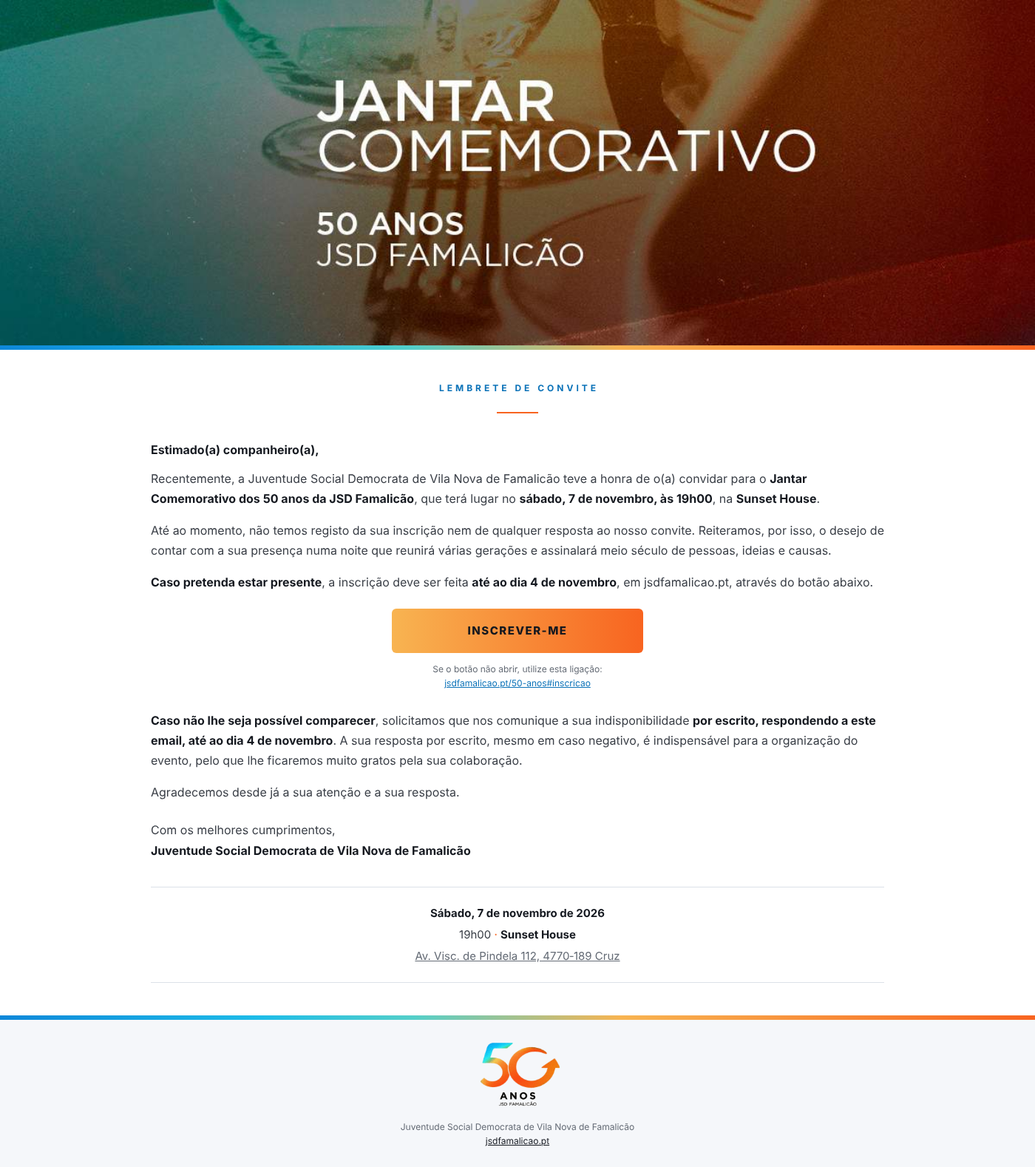
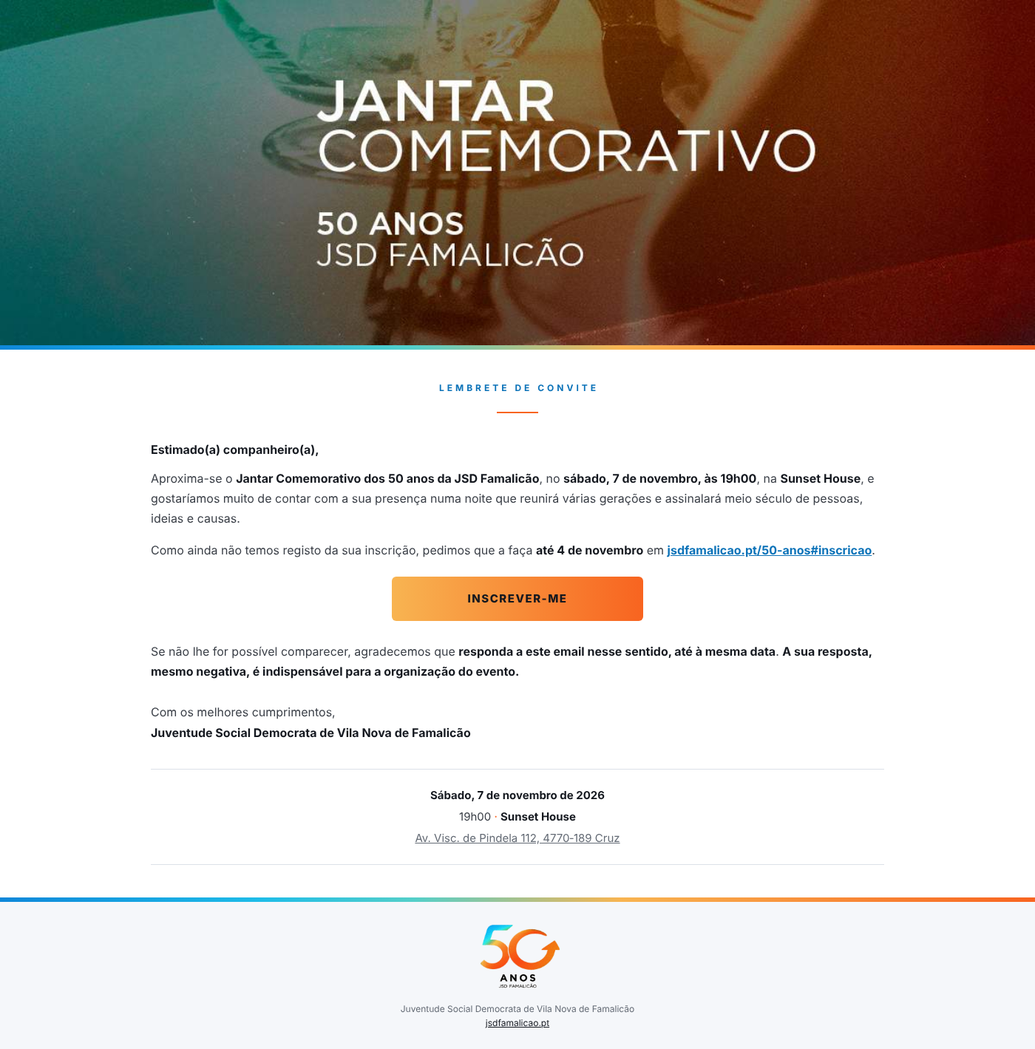
Email: follow-up institucional com o novo texto
Claude-Session: https://claude.ai/code/session_01HmCa1vTjDHZDtaefdz4YMz

Changed region(s): [[0.0, 0.3721, 1.0, 0.9922], [0.0, 0.031, 1.0, 0.3721], [0.0, 0.031, 0.0614, 0.062]]

diff --git a/email/jsd-50-anos-institucional-followup/copiar-email.html b/email/jsd-50-anos-institucional-followup/copiar-email.html
@@ -47,7 +47,7 @@
   </div>
 </main>
 <script>
-  const CONVITES = {"followup": {"html": "<!DOCTYPE html>\n<html lang=\"pt-PT\">\n<head>\n  <meta charset=\"UTF-8\">\n  <meta name=\"viewport\" content=\"width=device-width, initial-scale=1.0\">\n  <meta name=\"color-scheme\" content=\"light only\">\n  <meta name=\"supported-color-schemes\" content=\"light only\">\n  <meta name=\"format-detection\" content=\"telephone=no, date=no, address=no, email=no\">\n  <meta name=\"x-apple-disable-message-reformatting\">\n  <title>Convite · Jantar Comemorativo dos 50 anos da JSD Famalicão · Pedido de resposta<\/title>\n  <style>\n    body { -webkit-text-size-adjust:100%; -ms-text-size-adjust:100%; }\n    :root { color-scheme:light only; supported-color-schemes:light only; }\n    a[x-apple-data-detectors] { color:inherit !important; text-decoration:none !important; font-size:inherit !important; font-family:inherit !important; font-weight:inherit !important; line-height:inherit !important; }\n    @media only screen and (max-width:600px) {\n      .px          { padding-left:22px !important; padding-right:22px !important; }\n      .t-etiqueta  { font-size:13px !important; line-height:18px !important; }\n      .t-corpo     { font-size:18px !important; line-height:30px !important; }\n      .t-lead2     { font-size:20px !important; line-height:28px !important; }\n      .t-dados     { font-size:17px !important; line-height:28px !important; }\n      .t-ligacao   { font-size:14px !important; line-height:22px !important; }\n      .t-rodape    { font-size:14px !important; line-height:22px !important; }\n      .btn-tabela  { width:100% !important; }\n      .btn         { display:block !important; padding:21px 12px !important; font-size:16px !important; }\n    }\n  <\/style>\n<\/head>\n\n<!-- Gerado por src/gerar.py. Banner e barras a toda a largura; texto numa coluna de até 1040 px. -->\n\n<body style=\"margin:0; padding:0; background-color:#FFFFFF;\">\n\n  <div style=\"display:none; max-height:0; overflow:hidden; opacity:0; font-size:1px; line-height:1px; color:#FFFFFF;\">\n    Reiteramos o convite para 7 de novembro e agradecemos a sua resposta. Inscrição até 4 de novembro.\n    &#8199;&#847;&#8199;&#847;&#8199;&#847;&#8199;&#847;&#8199;&#847;&#8199;&#847;&#8199;&#847;&#8199;&#847;\n  <\/div>\n\n  <table role=\"presentation\" width=\"100%\" cellpadding=\"0\" cellspacing=\"0\" border=\"0\" bgcolor=\"#FFFFFF\" style=\"min-width:100%; background-color:#FFFFFF; font-family:Montserrat,'Helvetica Neue',Helvetica,Arial,sans-serif; -webkit-text-size-adjust:100%; -ms-text-size-adjust:100%; color-scheme:light only;\">\n\n    <tr>\n      <td align=\"center\" bgcolor=\"#554835\" style=\"background-color:#554835; font-size:0; line-height:0; text-align:center;\">\n        <img src=\"https://raw.githubusercontent.com/filipaf18/filipa-freitas-portfolio/213aef5628d4d71de076a4b38431e48593f2542e/email/jsd-50-anos-ultimas-inscricoes/imagens/banner.jpg\" width=\"640\" alt=\"Jantar Comemorativo. 50 anos JSD Famalicão.\"\n             style=\"display:block; min-width:100%; max-width:100%; height:auto; border:0; outline:none; color:#FFFFFF; font-family:Montserrat,'Helvetica Neue',Helvetica,Arial,sans-serif; font-size:20px; line-height:28px; text-align:center;\">\n      <\/td>\n    <\/tr>\n    <tr>\n      <td height=\"6\" bgcolor=\"#F86420\" style=\"height:6px; font-size:6px; line-height:6px; background-color:#F86420; background-image:linear-gradient(90deg,#0E87D9 0%,#1EBCE8 25%,#54CFC9 40%,#F8B451 60%,#F86420 100%);\">&nbsp;<\/td>\n    <\/tr>\n\n    <tr>\n      <td style=\"padding:0;\">\n        <table role=\"presentation\" align=\"center\" width=\"100%\" cellpadding=\"0\" cellspacing=\"0\" border=\"0\" style=\"max-width:1040px; margin:0 auto;\">\n\n          <tr>\n            <td class=\"px t-etiqueta\" align=\"center\" style=\"padding:44px 24px 0px 24px; font-family:Montserrat,'Helvetica Neue',Helvetica,Arial,sans-serif; font-size:12px; line-height:16px; font-weight:700; letter-spacing:4px; color:#0B72B8; text-align:center;\">LEMBRETE DE CONVIT<span style=\"letter-spacing:0;\">E<\/span><\/td>\n          <\/tr>\n          <tr>\n            <td align=\"center\" style=\"padding:24px 24px 0px 24px; text-align:center;\">\n              <table role=\"presentation\" align=\"center\" cellpadding=\"0\" cellspacing=\"0\" border=\"0\" style=\"margin:0 auto;\">\n                <tr><td width=\"56\" height=\"2\" bgcolor=\"#F86420\" style=\"width:56px; height:2px; background-color:#F86420; font-size:2px; line-height:2px;\">&nbsp;<\/td><\/tr>\n              <\/table>\n            <\/td>\n          <\/tr>\n          <tr>\n            <td class=\"px t-corpo\" align=\"left\" style=\"padding:36px 24px 0px 24px; font-family:Montserrat,'Helvetica Neue',Helvetica,Arial,sans-serif; font-size:16px; line-height:27px; font-weight:700; color:#14181F; text-align:left;\">Estimado(a) companheiro(a),<\/td>\n          <\/tr>\n          <tr>\n            <td class=\"px t-corpo\" align=\"left\" style=\"padding:12px 24px 0px 24px; font-family:Montserrat,'Helvetica Neue',Helvetica,Arial,sans-serif; font-size:16px; line-height:27px; color:#3A3F47; text-align:left;\">Recentemente, a Juventude Social Democrata de Vila Nova de Famalicão teve a honra de o(a) convidar para o <strong style=\"color:#14181F;\">Jantar Comemorativo dos 50&nbsp;anos da JSD Famalicão<\/strong>, que terá lugar no <strong style=\"color:#14181F;\">sábado, 7&nbsp;de&nbsp;novembro, às&nbsp;19h00<\/strong>, na <strong style=\"color:#14181F;\">Sunset&nbsp;House<\/strong>.<\/td>\n          <\/tr>\n          <tr>\n            <td class=\"px t-corpo\" align=\"left\" style=\"padding:16px 24px 0px 24px; font-family:Montserrat,'Helvetica Neue',Helvetica,Arial,sans-serif; font-size:16px; line-height:27px; color:#3A3F47; text-align:left;\">Até ao momento, não temos registo da sua inscrição nem de qualquer resposta ao nosso convite. Reiteramos, por isso, o desejo de contar com a sua presença numa noite que reunirá várias gerações e assinalará meio século de pessoas, ideias e causas.<\/td>\n          <\/tr>\n          <tr>\n            <td class=\"px t-corpo\" align=\"left\" style=\"padding:16px 24px 0px 24px; font-family:Montserrat,'Helvetica Neue',Helvetica,Arial,sans-serif; font-size:16px; line-height:27px; color:#3A3F47; text-align:left;\"><strong style=\"color:#14181F;\">Caso pretenda estar presente<\/strong>, a inscrição deve ser feita <strong style=\"color:#14181F;\">até ao dia 4&nbsp;de&nbsp;novembro<\/strong>, em jsdfamalicao.pt, através do botão abaixo.<\/td>\n          <\/tr>\n          <tr>\n            <td class=\"px\" align=\"center\" style=\"padding:22px 24px 0px 24px; text-align:center;\">\n              <table class=\"btn-tabela\" role=\"presentation\" width=\"100%\" cellpadding=\"0\" cellspacing=\"0\" border=\"0\" align=\"center\" style=\"max-width:340px; margin:0 auto;\">\n                <tr>\n                  <td align=\"center\" bgcolor=\"#F86420\" style=\"background-color:#F86420; background-image:linear-gradient(90deg,#F8B451 0%,#F86420 100%); border-radius:6px; text-align:center;\">\n                    <a class=\"btn\" href=\"https://jsdfamalicao.pt/50-anos#inscricao\" style=\"display:inline-block; padding:19px 20px; font-family:Montserrat,'Helvetica Neue',Helvetica,Arial,sans-serif; font-size:15px; line-height:22px; font-weight:800; letter-spacing:1.5px; color:#14181F; text-decoration:none; text-align:center;\">INSCREVER-ME<\/a>\n                  <\/td>\n                <\/tr>\n              <\/table>\n            <\/td>\n          <\/tr>\n          <tr>\n            <td class=\"px t-ligacao\" align=\"center\" style=\"padding:12px 24px 0px 24px; font-family:Montserrat,'Helvetica Neue',Helvetica,Arial,sans-serif; font-size:12px; line-height:19px; color:#646B75; text-align:center;\">Se o botão não abrir, utilize esta ligação:<br><a href=\"https://jsdfamalicao.pt/50-anos#inscricao\" style=\"color:#0B72B8; text-decoration:underline; word-break:break-all;\">jsdfamalicao.pt/50-anos#inscricao<\/a><\/td>\n          <\/tr>\n          <tr>\n            <td class=\"px t-corpo\" align=\"left\" style=\"padding:28px 24px 0px 24px; font-family:Montserrat,'Helvetica Neue',Helvetica,Arial,sans-serif; font-size:16px; line-height:27px; color:#3A3F47; text-align:left;\"><strong style=\"color:#14181F;\">Caso não lhe seja possível comparecer<\/strong>, solicitamos que nos comunique a sua indisponibilidade <strong style=\"color:#14181F;\">por escrito, respondendo a este email, até ao dia 4&nbsp;de&nbsp;novembro<\/strong>. A sua resposta por escrito, mesmo em caso negativo, é indispensável para a organização do evento, pelo que lhe ficaremos muito gratos pela sua colaboração.<\/td>\n          <\/tr>\n          <tr>\n            <td class=\"px t-corpo\" align=\"left\" style=\"padding:16px 24px 0px 24px; font-family:Montserrat,'Helvetica Neue',Helvetica,Arial,sans-serif; font-size:16px; line-height:27px; color:#3A3F47; text-align:left;\">Agradecemos desde já a sua atenção e a sua resposta.<\/td>\n          <\/tr>\n          <tr>\n            <td class=\"px t-corpo\" align=\"left\" style=\"padding:24px 24px 0px 24px; font-family:Montserrat,'Helvetica Neue',Helvetica,Arial,sans-serif; font-size:16px; line-height:27px; color:#3A3F47; text-align:left;\">Com os melhores cumprimentos,<\/td>\n          <\/tr>\n          <tr>\n            <td class=\"px t-corpo\" align=\"left\" style=\"padding:2px 24px 0px 24px; font-family:Montserrat,'Helvetica Neue',Helvetica,Arial,sans-serif; font-size:16px; line-height:25px; font-weight:700; color:#14181F; text-align:left;\">Juventude Social Democrata de Vila Nova de&nbsp;Famalicão<\/td>\n          <\/tr>\n          <tr>\n            <td class=\"px\" style=\"padding:36px 24px 0 24px;\">\n              <div style=\"border-top:1px solid #DCE1E8; border-bottom:1px solid #DCE1E8; padding:22px 0; text-align:center;\">\n                <div class=\"t-dados\" style=\"text-align:center; font-family:Montserrat,'Helvetica Neue',Helvetica,Arial,sans-serif; font-size:15px; line-height:26px; color:#3A3F47;\"><strong style=\"color:#14181F;\">Sábado, 7&nbsp;de&nbsp;novembro de&nbsp;2026<\/strong><\/div>\n                <div class=\"t-dados\" style=\"padding-top:3px; text-align:center; font-family:Montserrat,'Helvetica Neue',Helvetica,Arial,sans-serif; font-size:15px; line-height:26px; color:#3A3F47;\">19h00<span style=\"color:#F86420;\">&nbsp;·&nbsp;<\/span><strong style=\"color:#14181F;\">Sunset&nbsp;House<\/strong><\/div>\n                <div class=\"t-dados\" style=\"padding-top:3px; text-align:center; font-family:Montserrat,'Helvetica Neue',Helvetica,Arial,sans-serif; font-size:15px; line-height:26px; color:#3A3F47;\"><a href=\"https://www.google.com/maps/search/?api=1&amp;query=Av.+Visconde+de+Pindela+112,+4770-189+Cruz\" style=\"color:#646B75; text-decoration:underline;\">Av. Visc. de Pindela 112, 4770&#8209;189 Cruz<\/a><\/div>\n              <\/div>\n            <\/td>\n          <\/tr>\n          <tr>\n            <td class=\"px t-corpo\" align=\"left\" style=\"padding:0px 24px 44px 24px; font-family:Montserrat,'Helvetica Neue',Helvetica,Arial,sans-serif; font-size:16px; line-height:27px; color:#3A3F47; text-align:left;\"><\/td>\n          <\/tr>\n        <\/table>\n      <\/td>\n    <\/tr>\n\n    <tr>\n      <td height=\"6\" bgcolor=\"#F86420\" style=\"height:6px; font-size:6px; line-height:6px; background-color:#F86420; background-image:linear-gradient(90deg,#0E87D9 0%,#1EBCE8 25%,#54CFC9 40%,#F8B451 60%,#F86420 100%);\">&nbsp;<\/td>\n    <\/tr>\n\n    <tr>\n      <td class=\"px\" align=\"center\" bgcolor=\"#F5F7FA\" style=\"background-color:#F5F7FA; padding:28px 24px 26px 24px; font-family:Montserrat,'Helvetica Neue',Helvetica,Arial,sans-serif; text-align:center;\">\n        <table role=\"presentation\" align=\"center\" width=\"100%\" cellpadding=\"0\" cellspacing=\"0\" border=\"0\" style=\"margin:0 auto;\">\n          <tr><td align=\"center\" style=\"font-size:0; line-height:0; text-align:center;\"><table role=\"presentation\" align=\"center\" cellpadding=\"0\" cellspacing=\"0\" border=\"0\" style=\"margin:0 auto;\"><tr><td style=\"font-size:0; line-height:0;\"><img src=\"https://raw.githubusercontent.com/filipaf18/filipa-freitas-portfolio/213aef5628d4d71de076a4b38431e48593f2542e/email/jsd-50-anos-ultimas-inscricoes/imagens/logo-50-anos.png\" width=\"120\" alt=\"50 anos JSD Famalicão\" style=\"display:block; width:120px; max-width:100%; height:auto; border:0; outline:none; color:#14181F; font-family:Montserrat,'Helvetica Neue',Helvetica,Arial,sans-serif; font-size:16px; line-height:22px;\"><\/td><\/tr><\/table><\/td><\/tr>\n          <tr><td class=\"t-rodape\" align=\"center\" style=\"padding-top:16px; font-family:Montserrat,'Helvetica Neue',Helvetica,Arial,sans-serif; font-size:12px; line-height:19px; color:#646B75; text-align:center;\">Juventude Social Democrata de Vila&nbsp;Nova de&nbsp;Famalicão<br><a href=\"https://jsdfamalicao.pt\" style=\"color:#14181F; text-decoration:underline;\">jsdfamalicao.pt<\/a><\/td><\/tr>\n        <\/table>\n      <\/td>\n    <\/tr>\n\n  <\/table>\n\n<\/body>\n<\/html>\n", "texto": "LEMBRETE DE CONVITE\n\nEstimado(a) companheiro(a),\n\nRecentemente, a Juventude Social Democrata de Vila Nova de Famalicão teve a honra de o(a) convidar para o Jantar Comemorativo dos 50 anos da JSD Famalicão, que terá lugar no sábado, 7 de novembro, às 19h00, na Sunset House.\n\nAté ao momento, não temos registo da sua inscrição nem de qualquer resposta ao nosso convite. Reiteramos, por isso, o desejo de contar com a sua presença numa noite que reunirá várias gerações e assinalará meio século de pessoas, ideias e causas.\n\nCaso pretenda estar presente, a inscrição deve ser feita até ao dia 4 de novembro, em jsdfamalicao.pt, através do botão abaixo.\n\nINSCREVER-ME\n\nSe o botão não abrir, utilize esta ligação:\njsdfamalicao.pt/50-anos#inscricao\n\nCaso não lhe seja possível comparecer, solicitamos que nos comunique a sua indisponibilidade por escrito, respondendo a este email, até ao dia 4 de novembro. A sua resposta por escrito, mesmo em caso negativo, é indispensável para a organização do evento, pelo que lhe ficaremos muito gratos pela sua colaboração.\n\nAgradecemos desde já a sua atenção e a sua resposta.\n\nCom os melhores cumprimentos,\n\nJuventude Social Democrata de Vila Nova de Famalicão\n\nSábado, 7 de novembro de 2026\n19h00 · Sunset House\nAv. Visc. de Pindela 112, 4770‑189 Cruz\n\nJuventude Social Democrata de Vila Nova de Famalicão\njsdfamalicao.pt", "assunto": "Convite · Jantar Comemorativo dos 50 anos da JSD Famalicão · Pedido de resposta"}};
+  const CONVITES = {"followup": {"html": "<!DOCTYPE html>\n<html lang=\"pt-PT\">\n<head>\n  <meta charset=\"UTF-8\">\n  <meta name=\"viewport\" content=\"width=device-width, initial-scale=1.0\">\n  <meta name=\"color-scheme\" content=\"light only\">\n  <meta name=\"supported-color-schemes\" content=\"light only\">\n  <meta name=\"format-detection\" content=\"telephone=no, date=no, address=no, email=no\">\n  <meta name=\"x-apple-disable-message-reformatting\">\n  <title>Convite · Jantar Comemorativo dos 50 anos da JSD Famalicão · Pedido de resposta<\/title>\n  <style>\n    body { -webkit-text-size-adjust:100%; -ms-text-size-adjust:100%; }\n    :root { color-scheme:light only; supported-color-schemes:light only; }\n    a[x-apple-data-detectors] { color:inherit !important; text-decoration:none !important; font-size:inherit !important; font-family:inherit !important; font-weight:inherit !important; line-height:inherit !important; }\n    @media only screen and (max-width:600px) {\n      .px          { padding-left:22px !important; padding-right:22px !important; }\n      .t-etiqueta  { font-size:13px !important; line-height:18px !important; }\n      .t-corpo     { font-size:18px !important; line-height:30px !important; }\n      .t-lead2     { font-size:20px !important; line-height:28px !important; }\n      .t-dados     { font-size:17px !important; line-height:28px !important; }\n      .t-ligacao   { font-size:14px !important; line-height:22px !important; }\n      .t-rodape    { font-size:14px !important; line-height:22px !important; }\n      .btn-tabela  { width:100% !important; }\n      .btn         { display:block !important; padding:21px 12px !important; font-size:16px !important; }\n    }\n  <\/style>\n<\/head>\n\n<!-- Gerado por src/gerar.py. Banner e barras a toda a largura; texto numa coluna de até 1040 px. -->\n\n<body style=\"margin:0; padding:0; background-color:#FFFFFF;\">\n\n  <div style=\"display:none; max-height:0; overflow:hidden; opacity:0; font-size:1px; line-height:1px; color:#FFFFFF;\">\n    Reiteramos o convite para 7 de novembro e agradecemos a sua resposta. Inscrição até 4 de novembro.\n    &#8199;&#847;&#8199;&#847;&#8199;&#847;&#8199;&#847;&#8199;&#847;&#8199;&#847;&#8199;&#847;&#8199;&#847;\n  <\/div>\n\n  <table role=\"presentation\" width=\"100%\" cellpadding=\"0\" cellspacing=\"0\" border=\"0\" bgcolor=\"#FFFFFF\" style=\"min-width:100%; background-color:#FFFFFF; font-family:Montserrat,'Helvetica Neue',Helvetica,Arial,sans-serif; -webkit-text-size-adjust:100%; -ms-text-size-adjust:100%; color-scheme:light only;\">\n\n    <tr>\n      <td align=\"center\" bgcolor=\"#554835\" style=\"background-color:#554835; font-size:0; line-height:0; text-align:center;\">\n        <img src=\"https://raw.githubusercontent.com/filipaf18/filipa-freitas-portfolio/213aef5628d4d71de076a4b38431e48593f2542e/email/jsd-50-anos-ultimas-inscricoes/imagens/banner.jpg\" width=\"640\" alt=\"Jantar Comemorativo. 50 anos JSD Famalicão.\"\n             style=\"display:block; min-width:100%; max-width:100%; height:auto; border:0; outline:none; color:#FFFFFF; font-family:Montserrat,'Helvetica Neue',Helvetica,Arial,sans-serif; font-size:20px; line-height:28px; text-align:center;\">\n      <\/td>\n    <\/tr>\n    <tr>\n      <td height=\"6\" bgcolor=\"#F86420\" style=\"height:6px; font-size:6px; line-height:6px; background-color:#F86420; background-image:linear-gradient(90deg,#0E87D9 0%,#1EBCE8 25%,#54CFC9 40%,#F8B451 60%,#F86420 100%);\">&nbsp;<\/td>\n    <\/tr>\n\n    <tr>\n      <td style=\"padding:0;\">\n        <table role=\"presentation\" align=\"center\" width=\"100%\" cellpadding=\"0\" cellspacing=\"0\" border=\"0\" style=\"max-width:1040px; margin:0 auto;\">\n\n          <tr>\n            <td class=\"px t-etiqueta\" align=\"center\" style=\"padding:44px 24px 0px 24px; font-family:Montserrat,'Helvetica Neue',Helvetica,Arial,sans-serif; font-size:12px; line-height:16px; font-weight:700; letter-spacing:4px; color:#0B72B8; text-align:center;\">LEMBRETE DE CONVIT<span style=\"letter-spacing:0;\">E<\/span><\/td>\n          <\/tr>\n          <tr>\n            <td align=\"center\" style=\"padding:24px 24px 0px 24px; text-align:center;\">\n              <table role=\"presentation\" align=\"center\" cellpadding=\"0\" cellspacing=\"0\" border=\"0\" style=\"margin:0 auto;\">\n                <tr><td width=\"56\" height=\"2\" bgcolor=\"#F86420\" style=\"width:56px; height:2px; background-color:#F86420; font-size:2px; line-height:2px;\">&nbsp;<\/td><\/tr>\n              <\/table>\n            <\/td>\n          <\/tr>\n          <tr>\n            <td class=\"px t-corpo\" align=\"left\" style=\"padding:36px 24px 0px 24px; font-family:Montserrat,'Helvetica Neue',Helvetica,Arial,sans-serif; font-size:16px; line-height:27px; font-weight:700; color:#14181F; text-align:left;\">Estimado(a) companheiro(a),<\/td>\n          <\/tr>\n          <tr>\n            <td class=\"px t-corpo\" align=\"left\" style=\"padding:12px 24px 0px 24px; font-family:Montserrat,'Helvetica Neue',Helvetica,Arial,sans-serif; font-size:16px; line-height:27px; color:#3A3F47; text-align:left;\">Aproxima-se o <strong style=\"color:#14181F;\">Jantar Comemorativo dos 50&nbsp;anos da JSD Famalicão<\/strong>, no <strong style=\"color:#14181F;\">sábado, 7&nbsp;de&nbsp;novembro, às&nbsp;19h00<\/strong>, na <strong style=\"color:#14181F;\">Sunset&nbsp;House<\/strong>, e gostaríamos muito de contar com a sua presença numa noite que reunirá várias gerações e assinalará meio século de pessoas, ideias e causas.<\/td>\n          <\/tr>\n          <tr>\n            <td class=\"px t-corpo\" align=\"left\" style=\"padding:16px 24px 0px 24px; font-family:Montserrat,'Helvetica Neue',Helvetica,Arial,sans-serif; font-size:16px; line-height:27px; color:#3A3F47; text-align:left;\">Como ainda não temos registo da sua inscrição, pedimos que a faça <strong style=\"color:#14181F;\">até 4&nbsp;de&nbsp;novembro<\/strong> em <a href=\"https://jsdfamalicao.pt/50-anos#inscricao\" style=\"color:#0B72B8; text-decoration:underline; font-weight:700;\">jsdfamalicao.pt/50-anos#inscricao<\/a>.<\/td>\n          <\/tr>\n          <tr>\n            <td class=\"px\" align=\"center\" style=\"padding:22px 24px 0px 24px; text-align:center;\">\n              <table class=\"btn-tabela\" role=\"presentation\" width=\"100%\" cellpadding=\"0\" cellspacing=\"0\" border=\"0\" align=\"center\" style=\"max-width:340px; margin:0 auto;\">\n                <tr>\n                  <td align=\"center\" bgcolor=\"#F86420\" style=\"background-color:#F86420; background-image:linear-gradient(90deg,#F8B451 0%,#F86420 100%); border-radius:6px; text-align:center;\">\n                    <a class=\"btn\" href=\"https://jsdfamalicao.pt/50-anos#inscricao\" style=\"display:inline-block; padding:19px 20px; font-family:Montserrat,'Helvetica Neue',Helvetica,Arial,sans-serif; font-size:15px; line-height:22px; font-weight:800; letter-spacing:1.5px; color:#14181F; text-decoration:none; text-align:center;\">INSCREVER-ME<\/a>\n                  <\/td>\n                <\/tr>\n              <\/table>\n            <\/td>\n          <\/tr>\n          <tr>\n            <td class=\"px t-corpo\" align=\"left\" style=\"padding:28px 24px 0px 24px; font-family:Montserrat,'Helvetica Neue',Helvetica,Arial,sans-serif; font-size:16px; line-height:27px; color:#3A3F47; text-align:left;\">Se não lhe for possível comparecer, agradecemos que <strong style=\"color:#14181F;\">responda a este email nesse sentido, até à mesma data<\/strong>. <strong style=\"color:#14181F;\">A sua resposta, mesmo negativa, é indispensável para a organização do evento.<\/strong><\/td>\n          <\/tr>\n          <tr>\n            <td class=\"px t-corpo\" align=\"left\" style=\"padding:28px 24px 0px 24px; font-family:Montserrat,'Helvetica Neue',Helvetica,Arial,sans-serif; font-size:16px; line-height:27px; color:#3A3F47; text-align:left;\">Com os melhores cumprimentos,<\/td>\n          <\/tr>\n          <tr>\n            <td class=\"px t-corpo\" align=\"left\" style=\"padding:2px 24px 0px 24px; font-family:Montserrat,'Helvetica Neue',Helvetica,Arial,sans-serif; font-size:16px; line-height:25px; font-weight:700; color:#14181F; text-align:left;\">Juventude Social Democrata de Vila Nova de&nbsp;Famalicão<\/td>\n          <\/tr>\n          <tr>\n            <td class=\"px\" style=\"padding:36px 24px 0 24px;\">\n              <div style=\"border-top:1px solid #DCE1E8; border-bottom:1px solid #DCE1E8; padding:22px 0; text-align:center;\">\n                <div class=\"t-dados\" style=\"text-align:center; font-family:Montserrat,'Helvetica Neue',Helvetica,Arial,sans-serif; font-size:15px; line-height:26px; color:#3A3F47;\"><strong style=\"color:#14181F;\">Sábado, 7&nbsp;de&nbsp;novembro de&nbsp;2026<\/strong><\/div>\n                <div class=\"t-dados\" style=\"padding-top:3px; text-align:center; font-family:Montserrat,'Helvetica Neue',Helvetica,Arial,sans-serif; font-size:15px; line-height:26px; color:#3A3F47;\">19h00<span style=\"color:#F86420;\">&nbsp;·&nbsp;<\/span><strong style=\"color:#14181F;\">Sunset&nbsp;House<\/strong><\/div>\n                <div class=\"t-dados\" style=\"padding-top:3px; text-align:center; font-family:Montserrat,'Helvetica Neue',Helvetica,Arial,sans-serif; font-size:15px; line-height:26px; color:#3A3F47;\"><a href=\"https://www.google.com/maps/search/?api=1&amp;query=Av.+Visconde+de+Pindela+112,+4770-189+Cruz\" style=\"color:#646B75; text-decoration:underline;\">Av. Visc. de Pindela 112, 4770&#8209;189 Cruz<\/a><\/div>\n              <\/div>\n            <\/td>\n          <\/tr>\n          <tr>\n            <td class=\"px t-corpo\" align=\"left\" style=\"padding:0px 24px 44px 24px; font-family:Montserrat,'Helvetica Neue',Helvetica,Arial,sans-serif; font-size:16px; line-height:27px; color:#3A3F47; text-align:left;\"><\/td>\n          <\/tr>\n        <\/table>\n      <\/td>\n    <\/tr>\n\n    <tr>\n      <td height=\"6\" bgcolor=\"#F86420\" style=\"height:6px; font-size:6px; line-height:6px; background-color:#F86420; background-image:linear-gradient(90deg,#0E87D9 0%,#1EBCE8 25%,#54CFC9 40%,#F8B451 60%,#F86420 100%);\">&nbsp;<\/td>\n    <\/tr>\n\n    <tr>\n      <td class=\"px\" align=\"center\" bgcolor=\"#F5F7FA\" style=\"background-color:#F5F7FA; padding:28px 24px 26px 24px; font-family:Montserrat,'Helvetica Neue',Helvetica,Arial,sans-serif; text-align:center;\">\n        <table role=\"presentation\" align=\"center\" width=\"100%\" cellpadding=\"0\" cellspacing=\"0\" border=\"0\" style=\"margin:0 auto;\">\n          <tr><td align=\"center\" style=\"font-size:0; line-height:0; text-align:center;\"><table role=\"presentation\" align=\"center\" cellpadding=\"0\" cellspacing=\"0\" border=\"0\" style=\"margin:0 auto;\"><tr><td style=\"font-size:0; line-height:0;\"><img src=\"https://raw.githubusercontent.com/filipaf18/filipa-freitas-portfolio/213aef5628d4d71de076a4b38431e48593f2542e/email/jsd-50-anos-ultimas-inscricoes/imagens/logo-50-anos.png\" width=\"120\" alt=\"50 anos JSD Famalicão\" style=\"display:block; width:120px; max-width:100%; height:auto; border:0; outline:none; color:#14181F; font-family:Montserrat,'Helvetica Neue',Helvetica,Arial,sans-serif; font-size:16px; line-height:22px;\"><\/td><\/tr><\/table><\/td><\/tr>\n          <tr><td class=\"t-rodape\" align=\"center\" style=\"padding-top:16px; font-family:Montserrat,'Helvetica Neue',Helvetica,Arial,sans-serif; font-size:12px; line-height:19px; color:#646B75; text-align:center;\">Juventude Social Democrata de Vila&nbsp;Nova de&nbsp;Famalicão<br><a href=\"https://jsdfamalicao.pt\" style=\"color:#14181F; text-decoration:underline;\">jsdfamalicao.pt<\/a><\/td><\/tr>\n        <\/table>\n      <\/td>\n    <\/tr>\n\n  <\/table>\n\n<\/body>\n<\/html>\n", "texto": "LEMBRETE DE CONVITE\n\nEstimado(a) companheiro(a),\n\nAproxima-se o Jantar Comemorativo dos 50 anos da JSD Famalicão, no sábado, 7 de novembro, às 19h00, na Sunset House, e gostaríamos muito de contar com a sua presença numa noite que reunirá várias gerações e assinalará meio século de pessoas, ideias e causas.\n\nComo ainda não temos registo da sua inscrição, pedimos que a faça até 4 de novembro em jsdfamalicao.pt/50-anos#inscricao.\n\nINSCREVER-ME\n\nSe não lhe for possível comparecer, agradecemos que responda a este email nesse sentido, até à mesma data. A sua resposta, mesmo negativa, é indispensável para a organização do evento.\n\nCom os melhores cumprimentos,\n\nJuventude Social Democrata de Vila Nova de Famalicão\n\nSábado, 7 de novembro de 2026\n19h00 · Sunset House\nAv. Visc. de Pindela 112, 4770‑189 Cruz\n\nJuventude Social Democrata de Vila Nova de Famalicão\njsdfamalicao.pt", "assunto": "Convite · Jantar Comemorativo dos 50 anos da JSD Famalicão · Pedido de resposta"}};
   function copiar(tipo, texto, estado, mensagem) {
     let feito = false;
     const aoCopiar = (e) => {

diff --git a/email/jsd-50-anos-institucional-followup/apps-script/followup_institucional.html b/email/jsd-50-anos-institucional-followup/apps-script/followup_institucional.html
@@ -65,13 +65,10 @@
             <td class="px t-corpo" align="left" style="padding:36px 24px 0px 24px; font-family:Montserrat,'Helvetica Neue',Helvetica,Arial,sans-serif; font-size:16px; line-height:27px; font-weight:700; color:#14181F; text-align:left;">Estimado(a) companheiro(a),</td>
           </tr>
           <tr>
-            <td class="px t-corpo" align="left" style="padding:12px 24px 0px 24px; font-family:Montserrat,'Helvetica Neue',Helvetica,Arial,sans-serif; font-size:16px; line-height:27px; color:#3A3F47; text-align:left;">Recentemente, a Juventude Social Democrata de Vila Nova de Famalicão teve a honra de o(a) convidar para o <strong style="color:#14181F;">Jantar Comemorativo dos 50&nbsp;anos da JSD Famalicão</strong>, que terá lugar no <strong style="color:#14181F;">sábado, 7&nbsp;de&nbsp;novembro, às&nbsp;19h00</strong>, na <strong style="color:#14181F;">Sunset&nbsp;House</strong>.</td>
+            <td class="px t-corpo" align="left" style="padding:12px 24px 0px 24px; font-family:Montserrat,'Helvetica Neue',Helvetica,Arial,sans-serif; font-size:16px; line-height:27px; color:#3A3F47; text-align:left;">Aproxima-se o <strong style="color:#14181F;">Jantar Comemorativo dos 50&nbsp;anos da JSD Famalicão</strong>, no <strong style="color:#14181F;">sábado, 7&nbsp;de&nbsp;novembro, às&nbsp;19h00</strong>, na <strong style="color:#14181F;">Sunset&nbsp;House</strong>, e gostaríamos muito de contar com a sua presença numa noite que reunirá várias gerações e assinalará meio século de pessoas, ideias e causas.</td>
           </tr>
           <tr>
-            <td class="px t-corpo" align="left" style="padding:16px 24px 0px 24px; font-family:Montserrat,'Helvetica Neue',Helvetica,Arial,sans-serif; font-size:16px; line-height:27px; color:#3A3F47; text-align:left;">Até ao momento, não temos registo da sua inscrição nem de qualquer resposta ao nosso convite. Reiteramos, por isso, o desejo de contar com a sua presença numa noite que reunirá várias gerações e assinalará meio século de pessoas, ideias e causas.</td>
-          </tr>
-          <tr>
-            <td class="px t-corpo" align="left" style="padding:16px 24px 0px 24px; font-family:Montserrat,'Helvetica Neue',Helvetica,Arial,sans-serif; font-size:16px; line-height:27px; color:#3A3F47; text-align:left;"><strong style="color:#14181F;">Caso pretenda estar presente</strong>, a inscrição deve ser feita <strong style="color:#14181F;">até ao dia 4&nbsp;de&nbsp;novembro</strong>, em jsdfamalicao.pt, através do botão abaixo.</td>
+            <td class="px t-corpo" align="left" style="padding:16px 24px 0px 24px; font-family:Montserrat,'Helvetica Neue',Helvetica,Arial,sans-serif; font-size:16px; line-height:27px; color:#3A3F47; text-align:left;">Como ainda não temos registo da sua inscrição, pedimos que a faça <strong style="color:#14181F;">até 4&nbsp;de&nbsp;novembro</strong> em <a href="https://jsdfamalicao.pt/50-anos#inscricao" style="color:#0B72B8; text-decoration:underline; font-weight:700;">jsdfamalicao.pt/50-anos#inscricao</a>.</td>
           </tr>
           <tr>
             <td class="px" align="center" style="padding:22px 24px 0px 24px; text-align:center;">
@@ -85,16 +82,10 @@
             </td>
           </tr>
           <tr>
-            <td class="px t-ligacao" align="center" style="padding:12px 24px 0px 24px; font-family:Montserrat,'Helvetica Neue',Helvetica,Arial,sans-serif; font-size:12px; line-height:19px; color:#646B75; text-align:center;">Se o botão não abrir, utilize esta ligação:<br><a href="https://jsdfamalicao.pt/50-anos#inscricao" style="color:#0B72B8; text-decoration:underline; word-break:break-all;">jsdfamalicao.pt/50-anos#inscricao</a></td>
+            <td class="px t-corpo" align="left" style="padding:28px 24px 0px 24px; font-family:Montserrat,'Helvetica Neue',Helvetica,Arial,sans-serif; font-size:16px; line-height:27px; color:#3A3F47; text-align:left;">Se não lhe for possível comparecer, agradecemos que <strong style="color:#14181F;">responda a este email nesse sentido, até à mesma data</strong>. <strong style="color:#14181F;">A sua resposta, mesmo negativa, é indispensável para a organização do evento.</strong></td>
           </tr>
           <tr>
-            <td class="px t-corpo" align="left" style="padding:28px 24px 0px 24px; font-family:Montserrat,'Helvetica Neue',Helvetica,Arial,sans-serif; font-size:16px; line-height:27px; color:#3A3F47; text-align:left;"><strong style="color:#14181F;">Caso não lhe seja possível comparecer</strong>, solicitamos que nos comunique a sua indisponibilidade <strong style="color:#14181F;">por escrito, respondendo a este email, até ao dia 4&nbsp;de&nbsp;novembro</strong>. A sua resposta por escrito, mesmo em caso negativo, é indispensável para a organização do evento, pelo que lhe ficaremos muito gratos pela sua colaboração.</td>
-          </tr>
-          <tr>
-            <td class="px t-corpo" align="left" style="padding:16px 24px 0px 24px; font-family:Montserrat,'Helvetica Neue',Helvetica,Arial,sans-serif; font-size:16px; line-height:27px; color:#3A3F47; text-align:left;">Agradecemos desde já a sua atenção e a sua resposta.</td>
-          </tr>
-          <tr>
-            <td class="px t-corpo" align="left" style="padding:24px 24px 0px 24px; font-family:Montserrat,'Helvetica Neue',Helvetica,Arial,sans-serif; font-size:16px; line-height:27px; color:#3A3F47; text-align:left;">Com os melhores cumprimentos,</td>
+            <td class="px t-corpo" align="left" style="padding:28px 24px 0px 24px; font-family:Montserrat,'Helvetica Neue',Helvetica,Arial,sans-serif; font-size:16px; line-height:27px; color:#3A3F47; text-align:left;">Com os melhores cumprimentos,</td>
           </tr>
           <tr>
             <td class="px t-corpo" align="left" style="padding:2px 24px 0px 24px; font-family:Montserrat,'Helvetica Neue',Helvetica,Arial,sans-serif; font-size:16px; line-height:25px; font-weight:700; color:#14181F; text-align:left;">Juventude Social Democrata de Vila Nova de&nbsp;Famalicão</td>

diff --git a/email/jsd-50-anos-institucional-followup/convite.html b/email/jsd-50-anos-institucional-followup/convite.html
@@ -65,13 +65,10 @@
             <td class="px t-corpo" align="left" style="padding:36px 24px 0px 24px; font-family:Montserrat,'Helvetica Neue',Helvetica,Arial,sans-serif; font-size:16px; line-height:27px; font-weight:700; color:#14181F; text-align:left;">Estimado(a) companheiro(a),</td>
           </tr>
           <tr>
-            <td class="px t-corpo" align="left" style="padding:12px 24px 0px 24px; font-family:Montserrat,'Helvetica Neue',Helvetica,Arial,sans-serif; font-size:16px; line-height:27px; color:#3A3F47; text-align:left;">Recentemente, a Juventude Social Democrata de Vila Nova de Famalicão teve a honra de o(a) convidar para o <strong style="color:#14181F;">Jantar Comemorativo dos 50&nbsp;anos da JSD Famalicão</strong>, que terá lugar no <strong style="color:#14181F;">sábado, 7&nbsp;de&nbsp;novembro, às&nbsp;19h00</strong>, na <strong style="color:#14181F;">Sunset&nbsp;House</strong>.</td>
+            <td class="px t-corpo" align="left" style="padding:12px 24px 0px 24px; font-family:Montserrat,'Helvetica Neue',Helvetica,Arial,sans-serif; font-size:16px; line-height:27px; color:#3A3F47; text-align:left;">Aproxima-se o <strong style="color:#14181F;">Jantar Comemorativo dos 50&nbsp;anos da JSD Famalicão</strong>, no <strong style="color:#14181F;">sábado, 7&nbsp;de&nbsp;novembro, às&nbsp;19h00</strong>, na <strong style="color:#14181F;">Sunset&nbsp;House</strong>, e gostaríamos muito de contar com a sua presença numa noite que reunirá várias gerações e assinalará meio século de pessoas, ideias e causas.</td>
           </tr>
           <tr>
-            <td class="px t-corpo" align="left" style="padding:16px 24px 0px 24px; font-family:Montserrat,'Helvetica Neue',Helvetica,Arial,sans-serif; font-size:16px; line-height:27px; color:#3A3F47; text-align:left;">Até ao momento, não temos registo da sua inscrição nem de qualquer resposta ao nosso convite. Reiteramos, por isso, o desejo de contar com a sua presença numa noite que reunirá várias gerações e assinalará meio século de pessoas, ideias e causas.</td>
-          </tr>
-          <tr>
-            <td class="px t-corpo" align="left" style="padding:16px 24px 0px 24px; font-family:Montserrat,'Helvetica Neue',Helvetica,Arial,sans-serif; font-size:16px; line-height:27px; color:#3A3F47; text-align:left;"><strong style="color:#14181F;">Caso pretenda estar presente</strong>, a inscrição deve ser feita <strong style="color:#14181F;">até ao dia 4&nbsp;de&nbsp;novembro</strong>, em jsdfamalicao.pt, através do botão abaixo.</td>
+            <td class="px t-corpo" align="left" style="padding:16px 24px 0px 24px; font-family:Montserrat,'Helvetica Neue',Helvetica,Arial,sans-serif; font-size:16px; line-height:27px; color:#3A3F47; text-align:left;">Como ainda não temos registo da sua inscrição, pedimos que a faça <strong style="color:#14181F;">até 4&nbsp;de&nbsp;novembro</strong> em <a href="https://jsdfamalicao.pt/50-anos#inscricao" style="color:#0B72B8; text-decoration:underline; font-weight:700;">jsdfamalicao.pt/50-anos#inscricao</a>.</td>
           </tr>
           <tr>
             <td class="px" align="center" style="padding:22px 24px 0px 24px; text-align:center;">
@@ -85,16 +82,10 @@
             </td>
           </tr>
           <tr>
-            <td class="px t-ligacao" align="center" style="padding:12px 24px 0px 24px; font-family:Montserrat,'Helvetica Neue',Helvetica,Arial,sans-serif; font-size:12px; line-height:19px; color:#646B75; text-align:center;">Se o botão não abrir, utilize esta ligação:<br><a href="https://jsdfamalicao.pt/50-anos#inscricao" style="color:#0B72B8; text-decoration:underline; word-break:break-all;">jsdfamalicao.pt/50-anos#inscricao</a></td>
+            <td class="px t-corpo" align="left" style="padding:28px 24px 0px 24px; font-family:Montserrat,'Helvetica Neue',Helvetica,Arial,sans-serif; font-size:16px; line-height:27px; color:#3A3F47; text-align:left;">Se não lhe for possível comparecer, agradecemos que <strong style="color:#14181F;">responda a este email nesse sentido, até à mesma data</strong>. <strong style="color:#14181F;">A sua resposta, mesmo negativa, é indispensável para a organização do evento.</strong></td>
           </tr>
           <tr>
-            <td class="px t-corpo" align="left" style="padding:28px 24px 0px 24px; font-family:Montserrat,'Helvetica Neue',Helvetica,Arial,sans-serif; font-size:16px; line-height:27px; color:#3A3F47; text-align:left;"><strong style="color:#14181F;">Caso não lhe seja possível comparecer</strong>, solicitamos que nos comunique a sua indisponibilidade <strong style="color:#14181F;">por escrito, respondendo a este email, até ao dia 4&nbsp;de&nbsp;novembro</strong>. A sua resposta por escrito, mesmo em caso negativo, é indispensável para a organização do evento, pelo que lhe ficaremos muito gratos pela sua colaboração.</td>
-          </tr>
-          <tr>
-            <td class="px t-corpo" align="left" style="padding:16px 24px 0px 24px; font-family:Montserrat,'Helvetica Neue',Helvetica,Arial,sans-serif; font-size:16px; line-height:27px; color:#3A3F47; text-align:left;">Agradecemos desde já a sua atenção e a sua resposta.</td>
-          </tr>
-          <tr>
-            <td class="px t-corpo" align="left" style="padding:24px 24px 0px 24px; font-family:Montserrat,'Helvetica Neue',Helvetica,Arial,sans-serif; font-size:16px; line-height:27px; color:#3A3F47; text-align:left;">Com os melhores cumprimentos,</td>
+            <td class="px t-corpo" align="left" style="padding:28px 24px 0px 24px; font-family:Montserrat,'Helvetica Neue',Helvetica,Arial,sans-serif; font-size:16px; line-height:27px; color:#3A3F47; text-align:left;">Com os melhores cumprimentos,</td>
           </tr>
           <tr>
             <td class="px t-corpo" align="left" style="padding:2px 24px 0px 24px; font-family:Montserrat,'Helvetica Neue',Helvetica,Arial,sans-serif; font-size:16px; line-height:25px; font-weight:700; color:#14181F; text-align:left;">Juventude Social Democrata de Vila Nova de&nbsp;Famalicão</td>

diff --git a/email/jsd-50-anos-institucional-followup/src/gerar.py b/email/jsd-50-anos-institucional-followup/src/gerar.py
@@ -30,17 +30,13 @@ ASSINATURA = 'Juventude Social Democrata de Vila Nova de&nbsp;Famalicão'
 
 SAUDACAO = 'Estimado(a) companheiro(a),'
 PARAGRAFOS = [
-    f'Recentemente, a Juventude Social Democrata de Vila Nova de Famalicão teve a honra de o(a) convidar para o '
-    f'<strong {FORTE}>Jantar Comemorativo dos 50&nbsp;anos da JSD Famalicão</strong>, que terá lugar no '
-    f'<strong {FORTE}>sábado, 7&nbsp;de&nbsp;novembro, às&nbsp;19h00</strong>, na <strong {FORTE}>Sunset&nbsp;House</strong>.',
-    'Até ao momento, não temos registo da sua inscrição nem de qualquer resposta ao nosso convite. Reiteramos, por isso, o desejo de '
-    'contar com a sua presença numa noite que reunirá várias gerações e assinalará meio século de pessoas, ideias e causas.',
-    f'<strong {FORTE}>Caso pretenda estar presente</strong>, a inscrição deve ser feita <strong {FORTE}>até ao dia 4&nbsp;de&nbsp;novembro</strong>, '
-    f'em jsdfamalicao.pt, através do botão abaixo.',
-    f'<strong {FORTE}>Caso não lhe seja possível comparecer</strong>, solicitamos que nos comunique a sua indisponibilidade '
-    f'<strong {FORTE}>por escrito, respondendo a este email, até ao dia 4&nbsp;de&nbsp;novembro</strong>. '
-    'A sua resposta por escrito, mesmo em caso negativo, é indispensável para a organização do evento, '
-    'pelo que lhe ficaremos muito gratos pela sua colaboração.',
+    f'Aproxima-se o <strong {FORTE}>Jantar Comemorativo dos 50&nbsp;anos da JSD Famalicão</strong>, no '
+    f'<strong {FORTE}>sábado, 7&nbsp;de&nbsp;novembro, às&nbsp;19h00</strong>, na <strong {FORTE}>Sunset&nbsp;House</strong>, '
+    'e gostaríamos muito de contar com a sua presença numa noite que reunirá várias gerações e assinalará meio século de pessoas, ideias e causas.',
+    f'Como ainda não temos registo da sua inscrição, pedimos que a faça <strong {FORTE}>até 4&nbsp;de&nbsp;novembro</strong> em '
+    f'<a href="{LINK}" style="color:{AZUL}; text-decoration:underline; font-weight:700;">{LINK_TXT}</a>.',
+    f'Se não lhe for possível comparecer, agradecemos que <strong {FORTE}>responda a este email nesse sentido, até à mesma data</strong>. '
+    f'<strong {FORTE}>A sua resposta, mesmo negativa, é indispensável para a organização do evento.</strong>',
 ]
 
 
@@ -103,13 +99,11 @@ def pagina():
         linha(sem_rasto('LEMBRETE DE CONVITE'), 44, 0, f'font-size:12px; line-height:16px; font-weight:700; letter-spacing:4px; color:{AZUL};', 'center', 't-etiqueta'),
         traco(24, 0),
         linha(SAUDACAO, 36, 0, f'font-size:16px; line-height:27px; font-weight:700; color:{ESCURO};'),
-        *[linha(p, 12 if i == 0 else 16, 0) for i, p in enumerate(PARAGRAFOS[:3])],
+        linha(PARAGRAFOS[0], 12, 0),
+        linha(PARAGRAFOS[1], 16, 0),
         botao('INSCREVER-ME', 22, 0),
-        linha(f'Se o botão não abrir, utilize esta ligação:<br><a href="{LINK}" style="color:{AZUL}; text-decoration:underline; word-break:break-all;">{LINK_TXT}</a>',
-              12, 0, f'font-size:12px; line-height:19px; color:{MUTED};', 'center', 't-ligacao'),
-        linha(PARAGRAFOS[3], 28, 0),
-        linha('Agradecemos desde já a sua atenção e a sua resposta.', 16, 0),
-        linha('Com os melhores cumprimentos,', 24, 0),
+        linha(PARAGRAFOS[2], 28, 0),
+        linha('Com os melhores cumprimentos,', 28, 0),
         linha(ASSINATURA, 2, 0, f'font-size:16px; line-height:25px; font-weight:700; color:{ESCURO};'),
         dados(),
         linha('', 0, 44),
